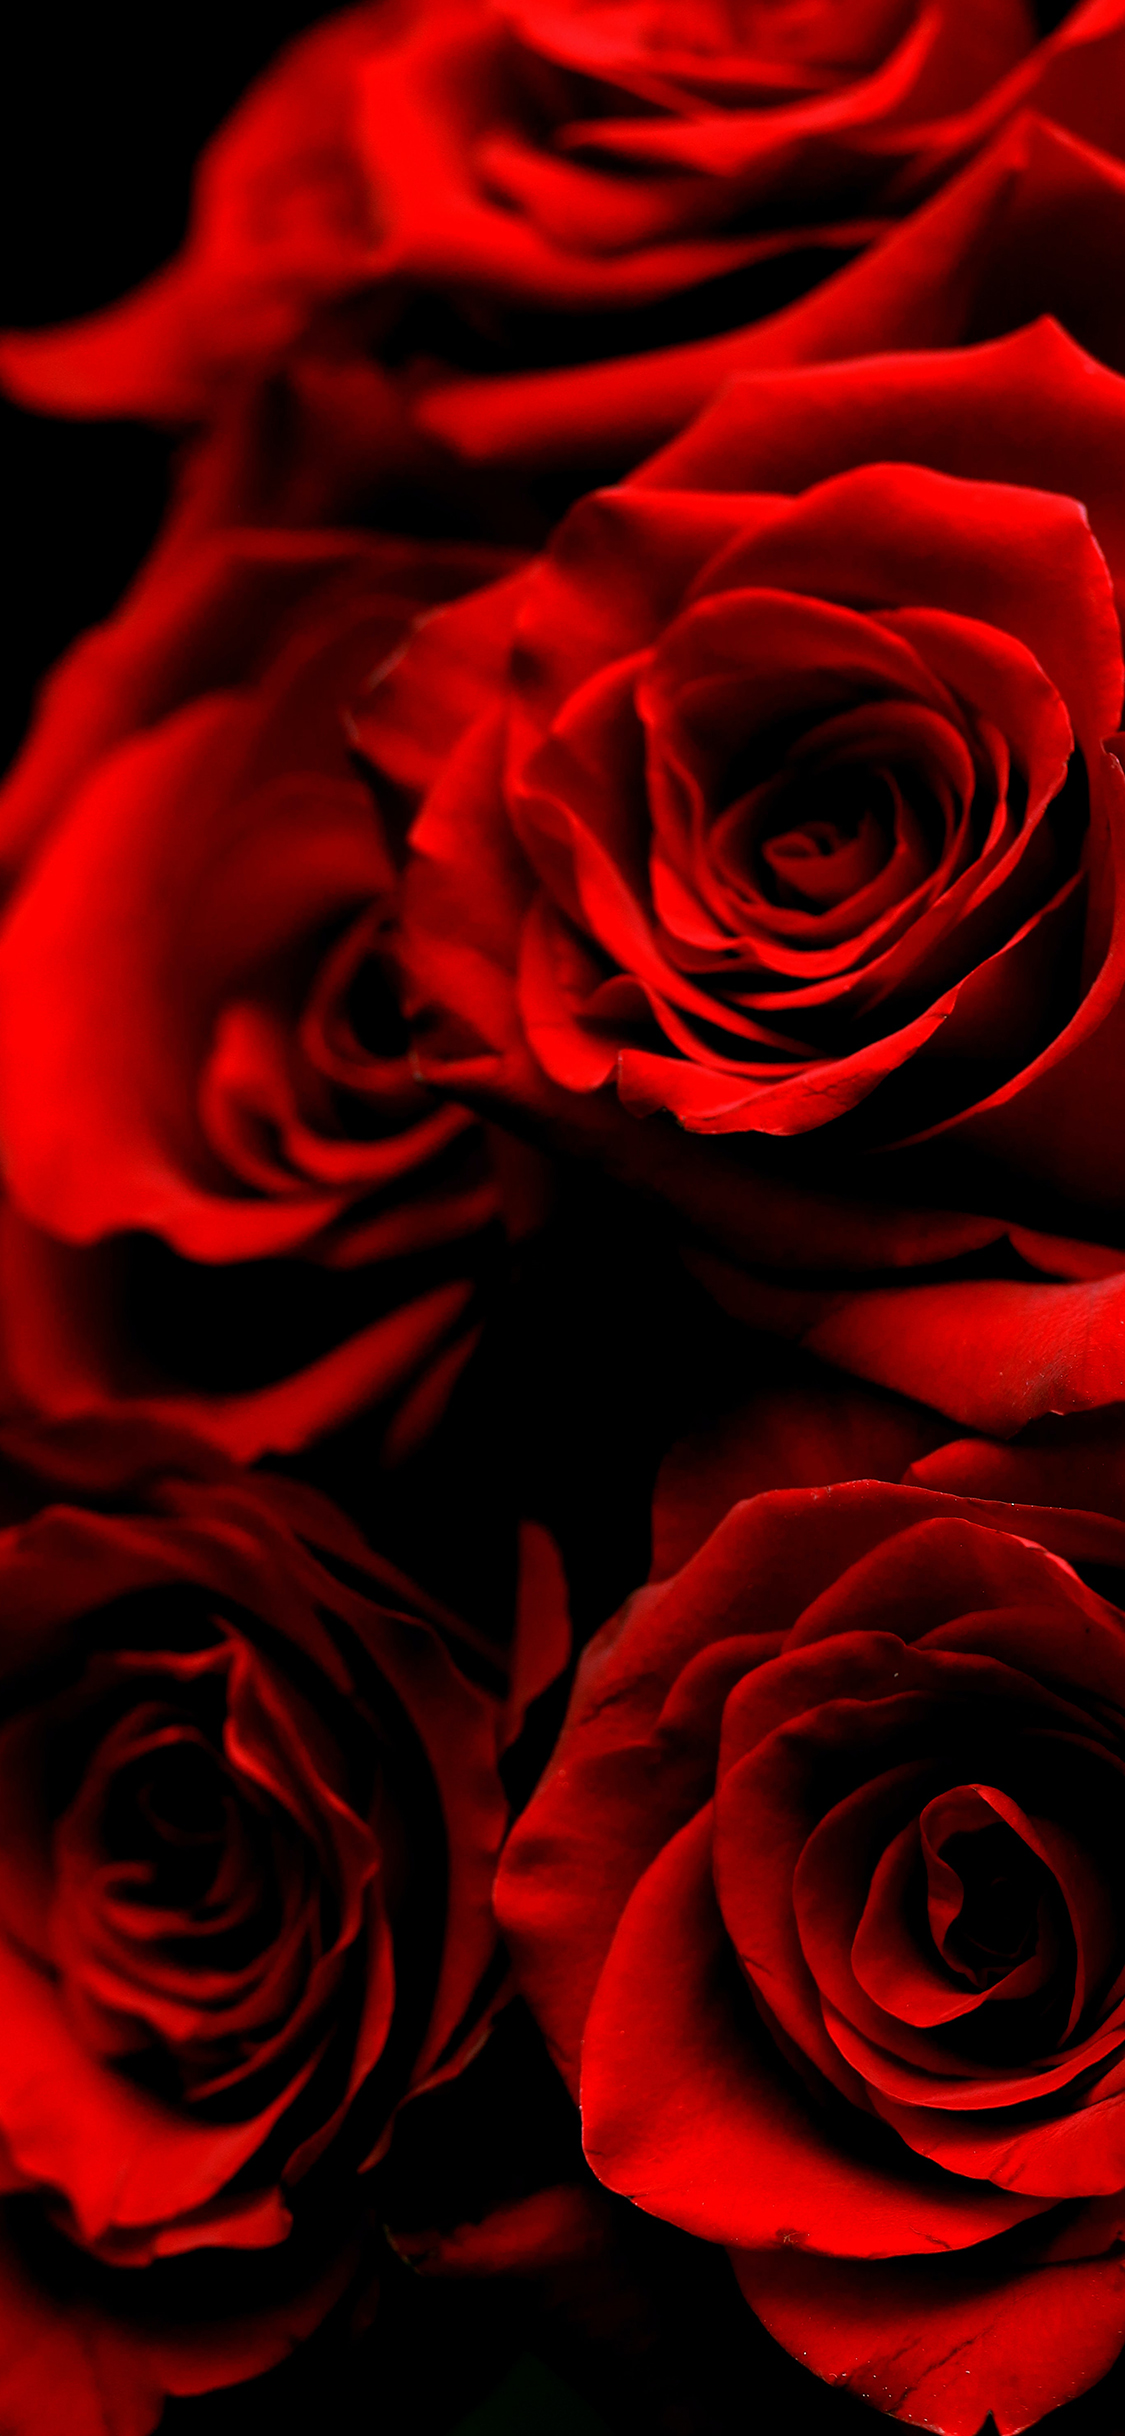
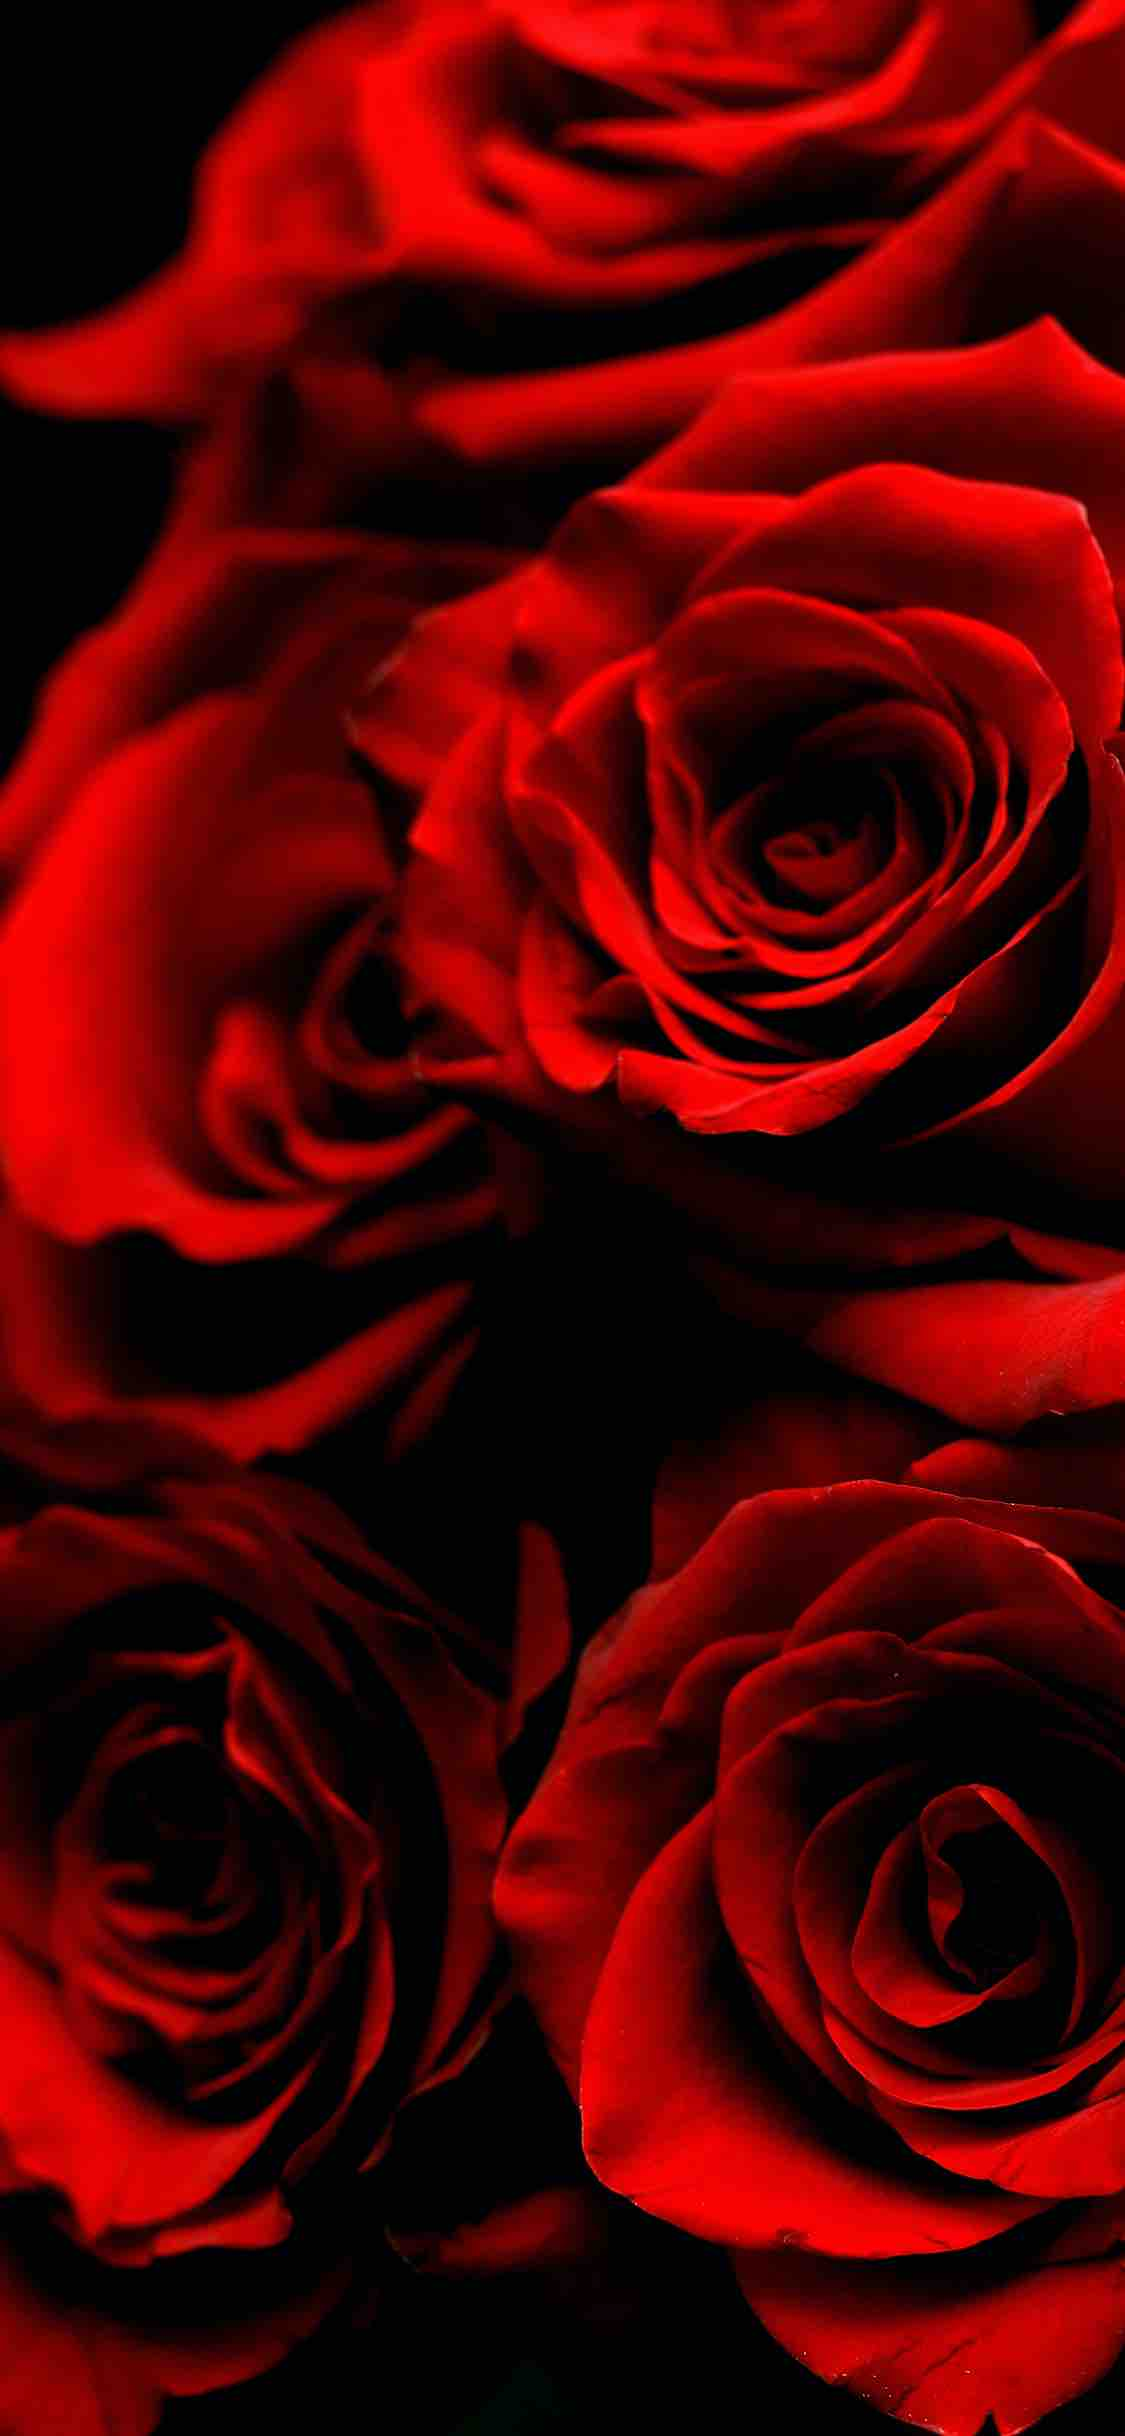
asd

Changed region(s): [[0.9333, 0.8424, 0.9956, 0.8736], [0.9956, 0.8112, 1.0, 0.8424], [0.8089, 0.9984, 0.84, 1.0]]

diff --git a/stylesheets/settings.css b/stylesheets/settings.css
@@ -1,7 +1,7 @@
 body{
     display: flex;
     align-items: center;
-    background-image: url("../backgroundPics/profil.jpeg");
+    background-image: url("../backgroundPics/profil2.jpeg");
     background-position: center;
     background-size: cover;
     background-repeat: no-repeat;
@@ -42,13 +42,13 @@ main {
 	transition: all 1s ease;
 }
 .user {
-	height: 70vh;
+	height: 60vh;
 	display: flex;
 	justify-content: flex-start;
 	flex-direction: column;
 	color: black;
 	align-items: center;
-	box-shadow: 0px 10px 10px black;
+	box-shadow: 0px 5px 17px white;
 	background-color: rgb(142,10,36);
 	position: absolute;
 	width: 100%;
@@ -63,7 +63,7 @@ main {
 #avatarSide {
 	height: 40vh;
 	justify-content: flex-start;
-	margin-top: -40px;
+	margin-top: -10vh;
 	gap: 10px;
 	font-size: 15px;
 	font-weight: bold;
@@ -91,7 +91,7 @@ main {
 	background: aliceblue;
 	width: 80vw;
 	border: 1px solid black;
-	min-height: 15vh;
+	min-height: 10vh;
 	overflow: scroll;
 	display: flex;
 	justify-content: center;
@@ -176,6 +176,7 @@ input{
 		height: 10vh;
 	}
 	.user{
+		height: 70vh;
 		flex-direction: row;
 		width: 90vw;
 		justify-content: space-evenly;
@@ -189,6 +190,6 @@ input{
 	}
 	#description{
 		width: 38vw;
-		min-height: 20vh;
+		min-height: 25vh;
 	}
 }

diff --git a/stylesheets/profil.css b/stylesheets/profil.css
@@ -166,7 +166,7 @@ main {
 	.userFavorites {
 		display: flex;
 		flex-direction: row;
-		gap: 3vw;
+		gap: 1vw;
 		overflow: scroll;
 		height: 100%;
 		width: 96vw;

diff --git a/stylesheets/fotoGram.css b/stylesheets/fotoGram.css
@@ -38,7 +38,7 @@ main {
 }
 #fotoPlace {
 	display: flex;
-	gap: 3vw;
+	gap: 1vw;
 	position: relative;
 	overflow-x: scroll;
 }
